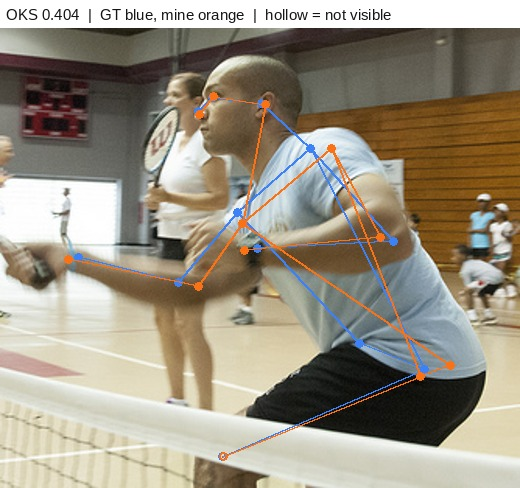
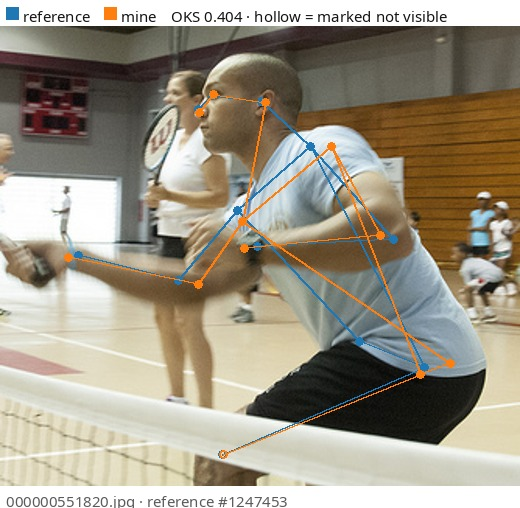
Adopt the shared demonstration frame
The crops said "GT blue, mine orange" in words. They now carry the swatches
themselves, from tools/chrome.py, ported verbatim from
polygon-annotation-agreement: the colour and what it stands for are read
together instead of one sentence away from each other. "GT" becomes
"reference", the same word the other four stages use.

Added a footer naming the frame and the reference annotation id, so a crop
saved on its own can be traced back. Colours moved to the portfolio pair.

Crops and both bar charts regenerated; every metric is unchanged.

Claude-Session: https://claude.ai/code/session_017ughEABcYgoJcSavLjH6Ju

diff --git a/tools/chrome.py b/tools/chrome.py
@@ -1,0 +1,163 @@
+# Ported unchanged from polygon-annotation-agreement/tools/chrome.py --
+# the demonstration frame is the same across every stage of the portfolio.
+#!/usr/bin/env python3
+"""The frame around a demonstration picture: header, swatches, footer.
+
+Every picture of a disagreement in this portfolio carries the same frame, so
+that it can be read on its own -- saved, pasted into a message, or opened years
+later without the README next to it. The frame answers three questions before
+the reader looks at the picture:
+
+    which colour is the reference and which is mine   -- the swatches
+    what the numbers of this case are                 -- the header facts
+    which frame this is                               -- the footer
+
+Two layouts, one rule. With an overlay both swatches sit side by side in the
+header. With two panels the swatch sits over its own panel, so colour and side
+are named together rather than instead of each other.
+
+The colours are the matplotlib tab10 blue and orange. They are fixed here and
+not passed in: a demonstration where blue means the reference in one repository
+and something else in another is worse than no legend at all.
+"""
+
+from pathlib import Path
+
+from PIL import Image, ImageDraw, ImageFont
+
+REF_COLOR = (31, 119, 180)      # blue: the reference annotation
+MINE_COLOR = (255, 127, 14)     # orange: mine
+
+BAR_H = 26                      # header
+FOOT_H = 22                     # footer
+BAR_BG = (255, 255, 255)
+BAR_FG = (20, 20, 20)
+FOOT_FG = (90, 90, 90)
+SWATCH = 12
+PAD = 6
+
+REF_LABEL = "reference"
+MINE_LABEL = "mine"
+
+FONT_CANDIDATES = [
+    "/usr/share/fonts/TTF/DejaVuSans.ttf",
+    "/usr/share/fonts/truetype/dejavu/DejaVuSans.ttf",
+    "/usr/share/fonts/dejavu/DejaVuSans.ttf",
+    "/usr/share/fonts/noto/NotoSans-Regular.ttf",
+    "/usr/share/fonts/liberation/LiberationSans-Regular.ttf",
+    "/usr/share/fonts/truetype/liberation/LiberationSans-Regular.ttf",
+]
+
+
+def load_font(size: int = 14):
+    """A TrueType font of the requested size, or the built-in default.
+
+    The bitmap font built into Pillow ignores the size argument and comes out
+    too small to read once GitHub scales the picture down.
+    """
+    for path in FONT_CANDIDATES:
+        if Path(path).exists():
+            try:
+                return ImageFont.truetype(path, size)
+            except OSError:
+                continue
+    for path in sorted(Path("/usr/share/fonts").rglob("*.ttf")):
+        try:
+            return ImageFont.truetype(str(path), size)
+        except OSError:
+            continue
+    return ImageFont.load_default()
+
+
+def text_width(draw: ImageDraw.ImageDraw, text: str, font) -> int:
+    box = draw.textbbox((0, 0), text, font=font)
+    return box[2] - box[0]
+
+
+def legend(draw: ImageDraw.ImageDraw, x: int, y: int, font,
+           ref_label: str = REF_LABEL, mine_label: str = MINE_LABEL) -> int:
+    """One swatch-and-label pair per side. Returns the x after the last label."""
+    for color, label in ((REF_COLOR, ref_label), (MINE_COLOR, mine_label)):
+        draw.rectangle([x, y, x + SWATCH, y + SWATCH], fill=color)
+        x += SWATCH + 5
+        draw.text((x, y - 2), label, fill=BAR_FG, font=font)
+        x += text_width(draw, label, font) + 14
+    return x
+
+
+def with_chrome(image: Image.Image, facts: str = "", footer: str = "",
+                panels: int = 1, gutter: int = 8, font=None,
+                upscale: bool = False,
+                ref_label: str = REF_LABEL, mine_label: str = MINE_LABEL):
+    """A white canvas of header + image + footer, with the frame drawn on it.
+
+    panels=1  the image is pasted once and both swatches sit in the header;
+    panels=2  the image is pasted twice side by side and each panel gets its
+              own swatch above it -- the caller draws the reference on the left
+              and mine on the right.
+
+    ref_label / mine_label extend the two labels where the side carries more
+    than its name -- a transcription, say. The swatch still comes first, so the
+    colour and what it stands for are read together.
+
+    upscale=True enlarges an image narrower than its own legend so that it
+    fills the canvas instead of sitting in a corner of white space. Only for
+    pictures already drawn on: it invalidates the returned offsets, so callers
+    that keep drawing afterwards must leave it off.
+
+    Returns (canvas, draw, top, panel_width). `top` is the y offset of the image
+    area: the caller keeps drawing in image coordinates shifted by it. With two
+    panels the right one starts at `panel_width + gutter`.
+    """
+    if panels not in (1, 2):
+        raise ValueError("panels must be 1 or 2")
+    font = font or load_font()
+    w, h = image.width, image.height
+    total_w = w * panels + gutter * (panels - 1)
+
+    # A crop can be narrower than its own legend. Widening the canvas is the
+    # only option that keeps the legend readable: shrinking the text defeats
+    # the purpose, and dropping it takes the picture back to "which colour is
+    # which?", which is exactly what this frame exists to answer.
+    probe = ImageDraw.Draw(Image.new("RGB", (1, 1)))
+    needed = PAD * 2
+    for label in (ref_label, mine_label):
+        needed += SWATCH + 5 + text_width(probe, label, font) + 14
+    if facts:
+        needed += text_width(probe, facts, font)
+    if footer:
+        needed = max(needed, PAD * 2 + text_width(probe, footer, font))
+    if needed > total_w and upscale:
+        # A crop is meant to be looked at closely anyway -- a 30 px contour
+        # cannot be judged at native size. Growing it to the legend width
+        # costs nothing and removes the white margin.
+        factor = needed / total_w
+        w, h = int(w * factor), int(h * factor)
+        image = image.resize((w, h), Image.LANCZOS)
+        total_w = w * panels + gutter * (panels - 1)
+    total_w = max(total_w, needed)
+
+    canvas = Image.new("RGB", (total_w, BAR_H + h + FOOT_H), BAR_BG)
+    for i in range(panels):
+        canvas.paste(image, (i * (w + gutter), BAR_H))
+    draw = ImageDraw.Draw(canvas)
+
+    y = (BAR_H - SWATCH) // 2
+    if panels == 1:
+        x = legend(draw, PAD, y, font, ref_label, mine_label)
+        if facts:
+            draw.text((x, y - 2), facts, fill=BAR_FG, font=font)
+    else:
+        for i, (color, label) in enumerate(((REF_COLOR, ref_label),
+                                            (MINE_COLOR, mine_label))):
+            x = i * (w + gutter) + PAD
+            draw.rectangle([x, y, x + SWATCH, y + SWATCH], fill=color)
+            draw.text((x + SWATCH + 5, y - 2), label, fill=BAR_FG, font=font)
+        if facts:
+            x = PAD + SWATCH + 5 + text_width(draw, ref_label, font) + 14
+            draw.text((x, y - 2), facts, fill=BAR_FG, font=font)
+
+    if footer:
+        draw.text((PAD, BAR_H + h + (FOOT_H - 13) // 2), footer,
+                  fill=FOOT_FG, font=font)
+    return canvas, draw, BAR_H, w

diff --git a/tools/render_skeletons.py b/tools/render_skeletons.py
@@ -34,33 +34,13 @@ from keypoints import (ABSENT, COCO_KEYPOINTS, SKELETON, VISIBLE,  # noqa: E402
                        Person, load_coco_keypoints)
 from oks import evaluate, oks  # noqa: E402
 
-REF_COLOR = (60, 130, 246)
-MY_COLOR = (249, 115, 22)
+sys.path.insert(0, str(Path(__file__).resolve().parent))
+
+from chrome import (MINE_COLOR as MY_COLOR, REF_COLOR,  # noqa: E402
+                    load_font, with_chrome)
+
 BAD = (220, 38, 38)
 OK = (34, 160, 90)
-
-FONT_CANDIDATES = [
-    "/usr/share/fonts/TTF/DejaVuSans.ttf",
-    "/usr/share/fonts/truetype/dejavu/DejaVuSans.ttf",
-    "/usr/share/fonts/liberation/LiberationSans-Regular.ttf",
-    "/usr/share/fonts/truetype/liberation/LiberationSans-Regular.ttf",
-    "/Library/Fonts/Arial.ttf",
-    "C:/Windows/Fonts/arial.ttf",
-]
-
-
-def load_font(size: int) -> tuple[object, bool]:
-    """Returns a TrueType font when one is available, and a flag saying so.
-
-    The bitmap font bundled with PIL cannot be scaled, so the captions come
-    out tiny; a real font is preferred whenever the system has one."""
-    for path in FONT_CANDIDATES:
-        if Path(path).exists():
-            try:
-                return ImageFont.truetype(path, size), True
-            except OSError:
-                continue
-    return ImageFont.load_default(), False
 
 
 def draw_person(d: ImageDraw.ImageDraw, p: Person, color, scale: float,
@@ -104,14 +84,11 @@ def render_pair(image_path: Path, gt: Person, mine: Person, value: float,
     crop = crop.resize((max(1, int(crop.width * scale)),
                         max(1, int(crop.height * scale))))
 
-    canvas = Image.new("RGB", (crop.width, crop.height + 28), (255, 255, 255))
-    canvas.paste(crop, (0, 28))
-    d = ImageDraw.Draw(canvas)
-    draw_person(d, gt, REF_COLOR, scale, x0, y0 - 28 / scale)
-    draw_person(d, mine, MY_COLOR, scale, x0, y0 - 28 / scale)
-    caption = (f"OKS {value:.3f}  |  GT blue, mine orange  |  "
-               f"hollow = not visible")
-    d.text((6, 6), caption, fill=(20, 20, 20), font=font)
+    facts = f"OKS {value:.3f} · hollow = marked not visible"
+    footer = f"{image_path.name} · reference #{gt.ident}"
+    canvas, d, top, _ = with_chrome(crop, facts=facts, footer=footer, font=font)
+    draw_person(d, gt, REF_COLOR, scale, x0, y0 - top / scale)
+    draw_person(d, mine, MY_COLOR, scale, x0, y0 - top / scale)
     canvas.save(out, quality=92)
 
 
@@ -193,9 +170,7 @@ def main() -> int:
     res = evaluate(gt, mine, "bbox", 0.3, args.pck_mult)
 
     args.out.mkdir(parents=True, exist_ok=True)
-    font, truetype = load_font(15)
-    if not truetype:
-        print("no TrueType font found: captions will use the small bitmap font")
+    font = load_font(15)
 
     scored = [(g, m, oks(g, m)) for g, m in res["pairs"]]
     scored = sorted([t for t in scored if t[2] is not None], key=lambda t: t[2])

diff --git a/tools/build_readme.py b/tools/build_readme.py
@@ -129,7 +129,8 @@ def main() -> int:
 
     if pairs:
         out += ["## The worst pairs", "",
-                "Blue is the ground truth, orange is mine. A point is filled when it",
+                "Every picture carries its own legend: a blue swatch for the reference, an orange one for mine, the numbers of the case beside them and the frame name underneath.",
+                "A point is filled when it",
                 "is marked visible and hollow when it is marked not visible.", ""]
         for item in pairs:
             key = f"{Path(item['image']).stem}_{item['gt_id']}"

diff --git a/README.md b/README.md
@@ -79,7 +79,8 @@ was fixed in advance and never tuned to the result.
 
 ## The worst pairs
 
-Blue is the ground truth, orange is mine. A point is filled when it
+Every picture carries its own legend: a blue swatch for the reference, an orange one for mine, the numbers of the case beside them and the frame name underneath.
+A point is filled when it
 is marked visible and hollow when it is marked not visible.
 
 ### 000000551820.jpg - ground truth #1247453
